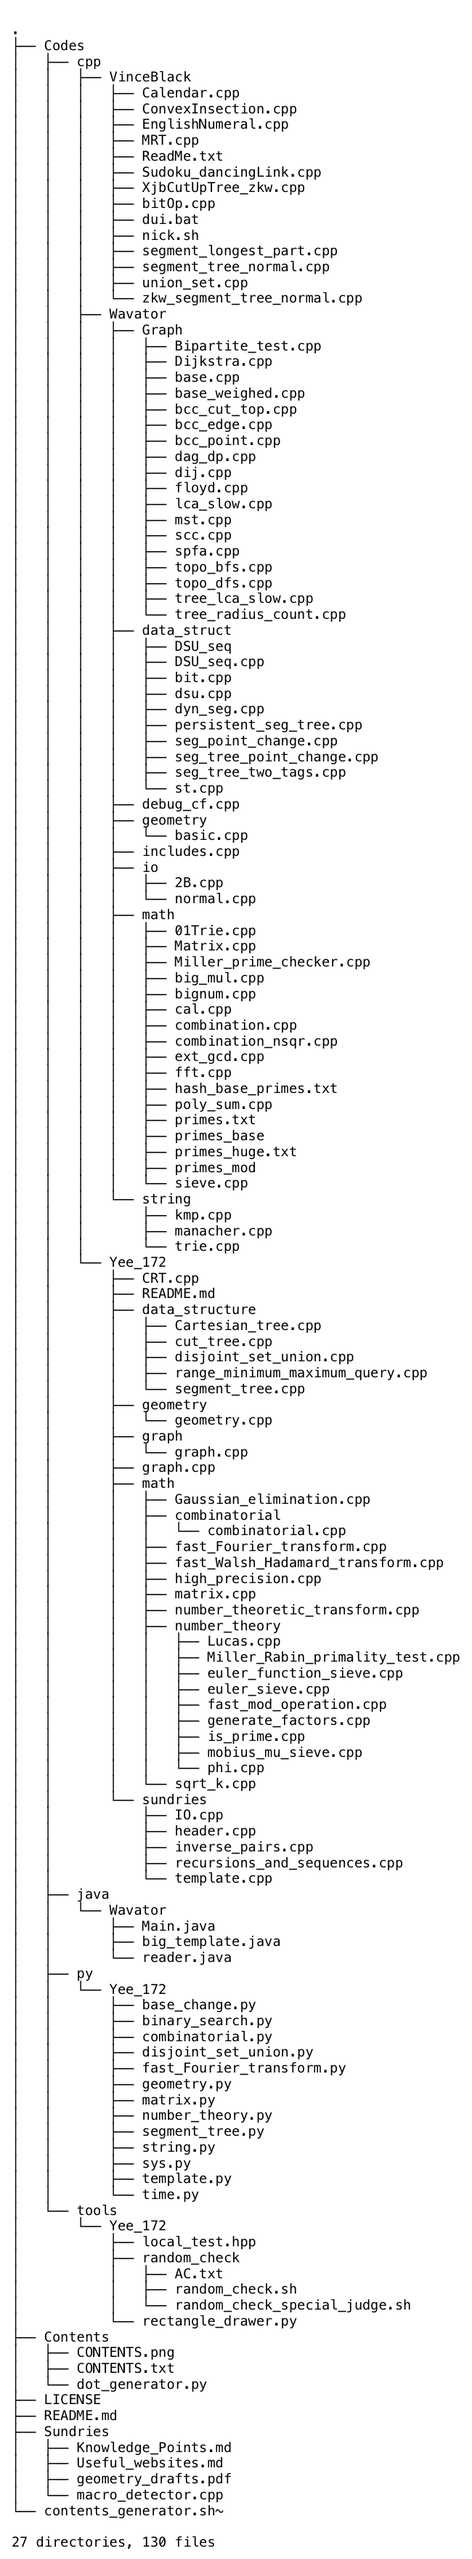
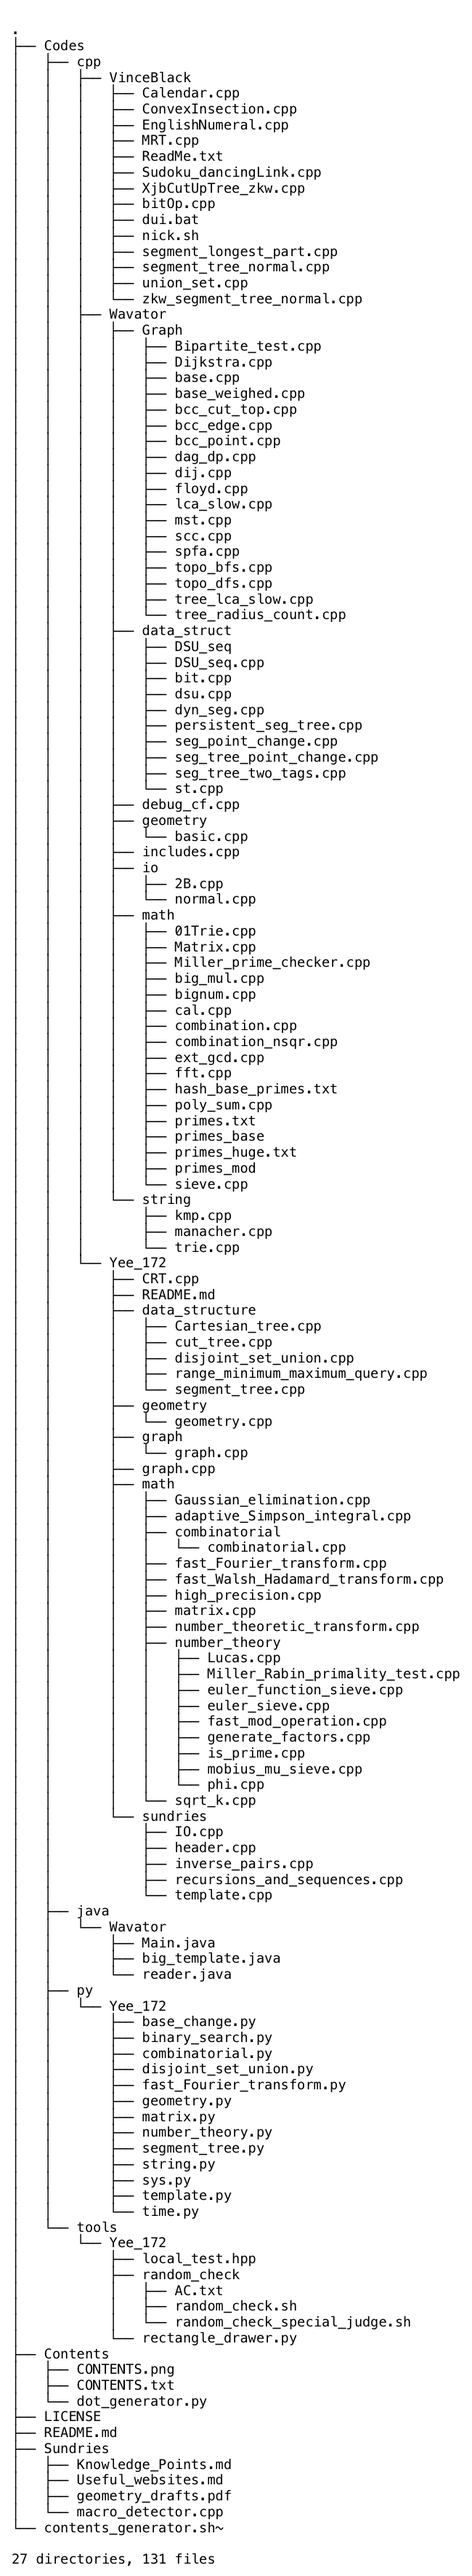
Update

diff --git a/Codes/cpp/Yee_172/math/adaptive_Simpson_integral.cpp b/Codes/cpp/Yee_172/math/adaptive_Simpson_integral.cpp
@@ -1,0 +1,48 @@
+#include <bits/stdc++.h>
+using namespace std;
+
+namespace adaptive_Simpson_integral
+{
+    typedef double db;
+    typedef pair<double, double> pdd;
+    typedef pair<pdd, pdd> pdddd;
+    const db eps = 1e-6;
+    db (*f)(db);
+
+    inline db simpson_formula(const db left, const db right)
+    {
+        db middle = (left + right) / 2.0;
+        return (f(left) + 4.0 * f(middle) + f(right)) * (right - left) / 6.0;
+    }
+
+    inline db integral(const db left, const db right, db (*function)(double))
+    {
+        f = function;
+        db res = 0, l, r, m, precision, S_total, S_left, S_right;
+        queue<pdddd> q;
+        q.push(make_pair(make_pair(left, right), make_pair(simpson_formula(left, right), eps)));
+        while (!q.empty())
+        {
+            l = q.front().first.first;
+            r = q.front().first.second;
+            S_total = q.front().second.first;
+            precision = q.front().second.second;
+            q.pop();
+            m = (l + r) / 2.0;
+            S_left = simpson_formula(l, m);
+            S_right = simpson_formula(m, r);
+            if (fabs(S_left + S_right - S_total) <= 15.0 * precision)
+                res += S_left + S_right + (S_left + S_right - S_total) / 15.0;
+            else
+            {
+                q.push(make_pair(make_pair(l, m), make_pair(S_left, precision / 2.0)));
+                q.push(make_pair(make_pair(m, r), make_pair(S_right, precision / 2.0)));
+            }
+        }
+        return res;
+    }
+}
+using adaptive_Simpson_integral::integral;
+
+double a, b, c, d;
+inline double f(double x) { return (c * x + d) / (a * x + b); }
